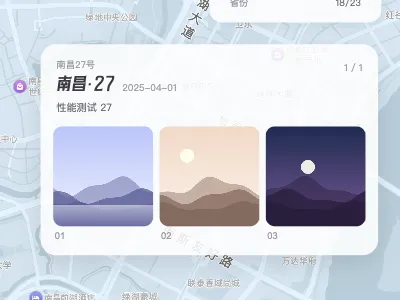
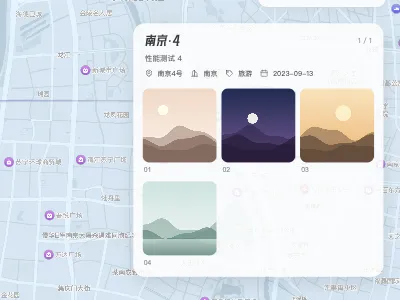
feat(2D地图): 信息卡与图片墙统一信息行和「查看文章」
- 图片墙标题下补上地址、城市、类型、日期一行和「查看文章」按钮，
  之前图片墙完全不显示关联文章
- 信息卡的「查看」改为「查看文章」；两种弹窗共用 createInfoRows /
  createArticleLink，样式收到 popup-shared.css
- 没写协议的外链（www.xxx）补 https://，不再被当成站内相对路径
- 图片墙样式的说明写清：只对填了图片墙图片的足迹生效，手机一律胶片带
- 效果图脚本只点露在屏幕上的标记，图片墙没打开就报错；重新生成五张效果图

diff --git a/src/main/frontend/footprint/modules/marker-content.js b/src/main/frontend/footprint/modules/marker-content.js
@@ -2,6 +2,8 @@
  * 标记点与信息窗口的 HTML 内容。
  *
  * createMarker 生成高德 Marker 的 DOM；createInfoWindow 生成无图片墙足迹的信息卡。
+ * createInfoRows / createArticleLink 是信息卡和图片墙共用的两段（信息行、「查看文章」），
+ * 两种弹窗因此同一套标题、信息行和按钮，样式见 styles/footprint/popup-shared.css。
  * SVG_ICONS 也被时间线卡片的位置图标使用。
  *
  * 标记点的四种样式（后台「标记点样式」）共用同一份 DOM，只靠 body 上的 marker-style-* 类换外形，
@@ -62,7 +64,6 @@ export const createMarker = (spec) => {
     return markerContent;
 };
 
-// 常量定义
 export const SVG_ICONS = {
     type: `<svg viewBox="0 0 24 24" fill="none" stroke="currentColor" stroke-width="1.8" stroke-linecap="round" stroke-linejoin="round">
         <path d="M20.6 13.4 13.4 20.6a2 2 0 0 1-2.8 0L3 13V3h10l7.6 7.6a2 2 0 0 1 0 2.8Z"></path>
@@ -84,28 +85,52 @@ export const SVG_ICONS = {
         <path d="M19 21V11l-7-4"></path>
         <path d="M9 9v.01M9 12v.01M9 15v.01M9 18v.01"></path>
     </svg>`,
+    article: `<svg viewBox="0 0 24 24" fill="none" stroke="currentColor" stroke-width="1.8" stroke-linecap="round" stroke-linejoin="round">
+        <path d="M14 3H7a2 2 0 0 0-2 2v14a2 2 0 0 0 2 2h10a2 2 0 0 0 2-2V8Z"></path>
+        <path d="M14 3v5h5M9 13h6M9 17h4"></path>
+    </svg>`,
     view: `<svg viewBox="0 0 24 24" fill="none" stroke="currentColor" stroke-width="1.8" stroke-linecap="round" stroke-linejoin="round">
         <path d="M2 12s3.6-7 10-7 10 7 10 7-3.6 7-10 7S2 12 2 12Z"></path>
         <circle cx="12" cy="12" r="3"></circle>
     </svg>`
 };
 
-export function createInfoWindow(spec) {
-    const {
-        image = '',
-        name = '',
-        footprintType = '',
-        createTime = '',
-        address = '',
-        city = '',
-        description = '',
-        article = ''
-    } = spec;
-
+/**
+ * 信息行：地址、城市、类型、日期，每行一个图标。空的项不出；地址缺省写「未知位置」。
+ * 信息卡里竖排，图片墙标题下横排（排法由外层类名决定，这里只出列表）。
+ */
+export const createInfoRows = (spec, className = '') => {
+    const {address = '', city = '', footprintType = '', createTime = ''} = spec;
     const row = (icon, text) => text
-        ? `<li class="info-window-row">${icon}<span>${escapeHtml(String(text))}</span></li>`
+        ? `<li class="popup-meta-row">${icon}<span>${escapeHtml(String(text))}</span></li>`
         : '';
+    return `
+        <ul class="popup-meta${className ? ' ' + className : ''}">
+            ${row(SVG_ICONS.location, address || '未知位置')}
+            ${row(SVG_ICONS.city, city)}
+            ${row(SVG_ICONS.type, footprintType)}
+            ${row(SVG_ICONS.date, formatDateToYMD(createTime))}
+        </ul>`;
+};
 
+/**
+ * 「查看文章」按钮：有关联文章才出。
+ * 后台既能选站内文章（存的是 /archives/xxx），也能填外链；没写协议的外链（www.xxx）补上 https://，
+ * 否则浏览器会把它当成本站的相对路径。
+ */
+export const createArticleLink = (article) => {
+    const raw = String(article || '').trim();
+    if (!raw) return '';
+    const href = /^(https?:)?\/\//i.test(raw) || raw.startsWith('/') ? raw : 'https://' + raw;
+    return `
+        <a href="${escapeHtml(href)}" target="_blank" rel="noopener" class="popup-article-btn">
+            ${SVG_ICONS.article}
+            <span>查看文章</span>
+        </a>`;
+};
+
+export function createInfoWindow(spec) {
+    const {image = '', name = '', description = '', article = ''} = spec;
     const processed = processFootprintImageUrl(image, 'timeline');
     const cachedImage = getCachedImage(processed);
 
@@ -117,18 +142,8 @@ export function createInfoWindow(spec) {
             <div class="image-info">
                 <h3 class="title">${escapeHtml(name)}</h3>
                 ${description ? `<p class="description">${escapeHtml(description)}</p>` : ''}
-                <ul class="info-window-rows">
-                    ${row(SVG_ICONS.location, address || '未知位置')}
-                    ${row(SVG_ICONS.city, city)}
-                    ${row(SVG_ICONS.type, footprintType)}
-                    ${row(SVG_ICONS.date, formatDateToYMD(createTime))}
-                </ul>
-                ${article ? `
-                    <a href="${escapeHtml(article)}" target="_blank" rel="noopener" class="article-btn">
-                        ${SVG_ICONS.view}
-                        <span>查看</span>
-                    </a>
-                ` : ''}
+                ${createInfoRows(spec)}
+                ${createArticleLink(article)}
             </div>
         </div>
     `;

diff --git a/src/main/frontend/styles/footprint/info-window.css b/src/main/frontend/styles/footprint/info-window.css
@@ -1,6 +1,7 @@
 /*
  * 高德信息窗体：只给没有图片墙的足迹用。216px 宽的玻璃卡：
- * 顶部一张方形照片，下面地名 + 图标行（地址、城市、类型、日期），有文章链接时底部一颗整宽浅底胶囊「查看」。
+ * 顶部一张方形照片，下面地名 + 图标行（地址、城市、类型、日期），有文章链接时底部一颗整宽浅底胶囊「查看文章」。
+ * 信息行与「查看文章」和图片墙共用，见 popup-shared.css。
  * 卡片挂在标记右侧，打开时从标记方向（卡片左边中点）去模糊弹出。
  */
 .info-window {
@@ -65,61 +66,10 @@
     -webkit-line-clamp: 2;
     -webkit-box-orient: vertical;
 }
-.info-window .info-window-rows {
-    margin: 0;
-    padding: 0;
-    list-style: none;
-}
-.info-window .info-window-row {
+/* 卡片里按钮占满整宽，贴着卡片内边距 */
+.info-window .popup-article-btn {
     display: flex;
-    align-items: center;
-    gap: 8px;
-    min-width: 0;
-    color: var(--fp-ink);
-    font-size: var(--fp-size-xs);
-    line-height: 24px;
-    font-variant-numeric: tabular-nums;
-}
-.info-window .info-window-row span {
-    min-width: 0;
-    overflow: hidden;
-    text-overflow: ellipsis;
-    white-space: nowrap;
-}
-.info-window .info-window-row svg {
-    flex: 0 0 14px;
-    width: 14px;
-    height: 14px;
-    color: var(--fp-ink-soft);
-}
-/* 整宽浅底胶囊 */
-.info-window .article-btn {
-    display: flex;
-    align-items: center;
-    justify-content: center;
-    gap: 6px;
-    min-height: 36px;
     margin: 8px -6px 0;
-    border-radius: var(--fp-radius-control);
-    background: var(--fp-rule);
-    color: var(--fp-ink);
-    font: 500 var(--fp-size-sm)/1 var(--fp-font-text);
-    text-decoration: none;
-    transition: background-color var(--fp-dur) var(--fp-ease), transform var(--fp-dur) var(--fp-ease);
-}
-.info-window .article-btn svg {
-    width: 14px;
-    height: 14px;
-}
-.info-window .article-btn:hover {
-    background: var(--fp-rule-strong);
-}
-.info-window .article-btn:active {
-    transform: scale(0.96);
-}
-.info-window .article-btn:focus-visible {
-    outline: 2px solid var(--fp-accent);
-    outline-offset: 2px;
 }
 .info-window .time-close-btn {
     display: none;

diff --git a/src/main/frontend/styles/footprint/popup-shared.css b/src/main/frontend/styles/footprint/popup-shared.css
@@ -1,0 +1,72 @@
+/*
+ * 2D 地图两种弹窗共用的部分：信息卡（.info-window，没有图片墙的足迹）与图片墙（.photo-wall-window）。
+ * 两边的信息行和「查看文章」出自同一段 HTML（marker-content.js 的 createInfoRows / createArticleLink），
+ * 样式也只写这一份；各自怎么排（竖排 / 横排、按钮整宽 / 随文字）在各自的文件里。
+ */
+
+/* 信息行：图标 + 文字，单行省略 */
+.popup-meta {
+    margin: 0;
+    padding: 0;
+    list-style: none;
+}
+.popup-meta-row {
+    display: flex;
+    align-items: center;
+    gap: 8px;
+    min-width: 0;
+    color: var(--fp-ink);
+    font-size: var(--fp-size-xs);
+    line-height: 24px;
+    font-variant-numeric: tabular-nums;
+}
+.popup-meta-row span {
+    min-width: 0;
+    overflow: hidden;
+    text-overflow: ellipsis;
+    white-space: nowrap;
+}
+.popup-meta-row svg {
+    flex: 0 0 14px;
+    width: 14px;
+    height: 14px;
+    color: var(--fp-ink-soft);
+}
+
+/* 「查看文章」：浅底胶囊，新标签页打开 */
+.popup-article-btn {
+    display: inline-flex;
+    align-items: center;
+    justify-content: center;
+    gap: 6px;
+    min-height: 36px;
+    border-radius: var(--fp-radius-control);
+    background: var(--fp-rule);
+    color: var(--fp-ink);
+    font: 500 var(--fp-size-sm)/1 var(--fp-font-text);
+    text-decoration: none;
+    cursor: pointer;
+    transition: background-color var(--fp-dur) var(--fp-ease), transform var(--fp-dur) var(--fp-ease);
+}
+.popup-article-btn svg {
+    width: 14px;
+    height: 14px;
+}
+.popup-article-btn:hover {
+    background: var(--fp-rule-strong);
+}
+.popup-article-btn:active {
+    transform: scale(0.96);
+}
+.popup-article-btn:focus-visible {
+    outline: 2px solid var(--fp-accent);
+    outline-offset: 2px;
+}
+@media (prefers-reduced-motion: reduce) {
+    .popup-article-btn {
+        transition: background-color var(--fp-dur) linear;
+    }
+    .popup-article-btn:active {
+        transform: none;
+    }
+}

diff --git a/src/main/frontend/footprint/modules/photo-wall.js b/src/main/frontend/footprint/modules/photo-wall.js
@@ -8,7 +8,8 @@
 
 import { isMobile } from './env.js';
 import { FOOTPRINT_IMAGE_PLACEHOLDER } from './footprint-data.js';
-import { escapeHtml, formatDateToYMD } from './format.js';
+import { escapeHtml } from './format.js';
+import { createArticleLink, createInfoRows } from './marker-content.js';
 
 export const normalizeGalleryImages = (images) => {
     if (!Array.isArray(images)) return [];
@@ -87,8 +88,6 @@ export const createPhotoWall = (spec, page = 0) => {
         : images.slice(pageStart, pageStart + pageSize);
     const name = spec.name;
     let canvas = '';
-    // 标题上方一行写足迹的地址（真实信息），没有地址就不显示
-    const kicker = escapeHtml(spec.address || '');
     let counter = `${currentPage + 1} / ${totalPages}`;
     let wallClass = '';
 
@@ -156,12 +155,10 @@ export const createPhotoWall = (spec, page = 0) => {
         <div class="photo-wall-window${wallClass}" data-photo-page="${currentPage}" data-photo-total-pages="${totalPages}">
             <div class="photo-wall-heading">
                 <div class="photo-wall-heading-copy">
-                    <span class="photo-wall-kicker">${kicker}</span>
-                    <div class="photo-wall-title-row">
-                        <h3>${escapeHtml(spec.name || '足迹')}</h3>
-                        ${spec.createTime ? `<span class="photo-wall-date">${escapeHtml(formatDateToYMD(spec.createTime))}</span>` : ''}
-                    </div>
+                    <h3>${escapeHtml(spec.name || '足迹')}</h3>
                     ${spec.description ? `<p class="photo-wall-description">${escapeHtml(spec.description)}</p>` : ''}
+                    ${createInfoRows(spec, 'photo-wall-meta')}
+                    ${createArticleLink(spec.article)}
                 </div>
                 <div class="photo-wall-heading-meta">
                     <span class="photo-wall-counter">${counter}</span>

diff --git a/src/main/frontend/styles/footprint/marker-photo-wall.css b/src/main/frontend/styles/footprint/marker-photo-wall.css
@@ -78,7 +78,7 @@
     outline-offset: 2px;
 }
 
-/* 标题区：左边地址 / 足迹名 + 日期 / 描述，右边页码与翻页 */
+/* 标题区：左边足迹名 / 描述 / 一行信息（和信息卡同一套，横排）/「查看文章」，右边页码与翻页 */
 .photo-wall-heading {
     display: flex;
     align-items: flex-start;
@@ -97,25 +97,6 @@
     gap: 8px;
     padding-top: 2px;
 }
-.photo-wall-kicker {
-    display: block;
-    margin-bottom: 2px;
-    overflow: hidden;
-    color: var(--fp-ink-faint);
-    font-size: var(--fp-size-xs);
-    line-height: 1.5;
-    text-overflow: ellipsis;
-    white-space: nowrap;
-}
-.photo-wall-kicker:empty {
-    display: none;
-}
-.photo-wall-title-row {
-    display: flex;
-    align-items: baseline;
-    gap: 10px;
-    min-width: 0;
-}
 .photo-wall-heading h3 {
     min-width: 0;
     margin: 0;
@@ -127,12 +108,6 @@
     text-overflow: ellipsis;
     white-space: nowrap;
 }
-.photo-wall-date {
-    flex: 0 0 auto;
-    color: var(--fp-ink-faint);
-    font-size: var(--fp-size-xs);
-    font-variant-numeric: tabular-nums;
-}
 .photo-wall-description {
     max-width: 36em;
     margin: 4px 0 0;
@@ -143,6 +118,17 @@
     display: -webkit-box;
     -webkit-box-orient: vertical;
     -webkit-line-clamp: 2;
+}
+.photo-wall-meta {
+    display: flex;
+    flex-wrap: wrap;
+    column-gap: 14px;
+    max-width: 36em;
+    margin-top: 4px;
+}
+.photo-wall-heading .popup-article-btn {
+    margin-top: 10px;
+    padding: 0 14px;
 }
 .photo-wall-counter {
     color: var(--fp-ink-faint);

diff --git a/src/main/frontend/footprint/modules/footprint-markers.js b/src/main/frontend/footprint/modules/footprint-markers.js
@@ -378,7 +378,7 @@ export const addFootprintMarkers = async (map, footprintData) => {
         if (infoWindowElement) {
             infoWindowElement.addEventListener('click', handleInfoWindowClick);
 
-            const articleBtn = infoWindowElement.querySelector('.article-btn');
+            const articleBtn = infoWindowElement.querySelector('.popup-article-btn');
             if (articleBtn) {
                 articleBtn.addEventListener('click', handleArticleClick);
             }
@@ -647,7 +647,7 @@ export const addFootprintMarkers = async (map, footprintData) => {
         const infoWindowElement = document.querySelector('.info-window');
         if (infoWindowElement) {
             infoWindowElement.removeEventListener('click', handleInfoWindowClick);
-            const articleBtn = infoWindowElement.querySelector('.article-btn');
+            const articleBtn = infoWindowElement.querySelector('.popup-article-btn');
             if (articleBtn) {
                 articleBtn.removeEventListener('click', handleArticleClick);
             }

diff --git a/src/main/frontend/styles/footprint/gallery-modes-and-timeline-polish.css b/src/main/frontend/styles/footprint/gallery-modes-and-timeline-polish.css
@@ -218,11 +218,6 @@
         gap: 12px;
         border-radius: calc(var(--fp-radius-panel) + 4px);
     }
-    .photo-wall-window.photo-wall-mobile .photo-wall-title-row {
-        flex-direction: column;
-        align-items: flex-start;
-        gap: 2px;
-    }
     .photo-wall-window.photo-wall-mobile .photo-wall-heading h3 {
         font-size: var(--fp-size-lg);
     }

diff --git a/src/main/frontend/styles/footprint/index.css b/src/main/frontend/styles/footprint/index.css
@@ -1,5 +1,6 @@
 /* footprint.css 入口：按 @import 顺序拼回原文件的规则顺序，顺序即层叠，勿随意调换。 */
 @import "./base-and-map-controls.css";
+@import "./popup-shared.css";
 @import "./info-window.css";
 @import "./marker-photo-wall.css";
 @import "./marker-styles.css";
